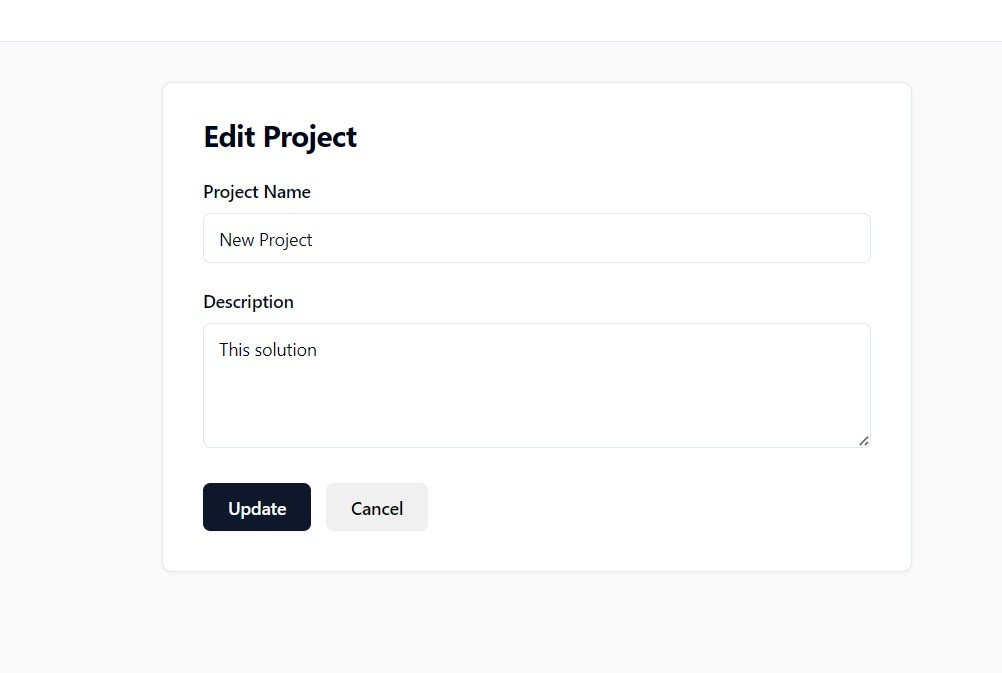
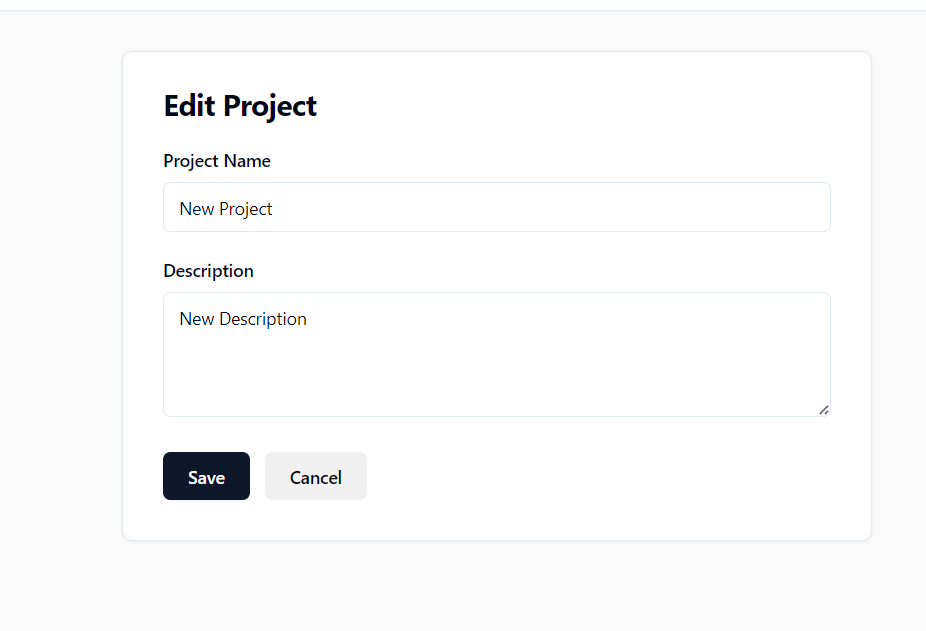
Edit A{I link and screenshots

diff --git a/frontend/projectmangment/src/app/services/project/project-service.ts b/frontend/projectmangment/src/app/services/project/project-service.ts
@@ -8,7 +8,7 @@ import { map } from 'rxjs/operators';
 })
 export class ProjectService {
     private http = inject(HttpClient);
-    private api = 'http://localhost:81/api/projects/projects.php';
+    private api = 'http://localhost:81/api_angular/projects/projects.php';
 
     projectSignal = signal<ProjectModel[]>([]);
     project = this.projectSignal.asReadonly();

diff --git a/frontend/projectmangment/src/app/services/task/task-service.ts b/frontend/projectmangment/src/app/services/task/task-service.ts
@@ -7,7 +7,7 @@ import { TaskModel } from '../../models/task-model';
 })
 export class TaskService {
     private http = inject(HttpClient);
-    private api = 'http://localhost:81/api/task/tasks.php';
+    private api = 'http://localhost:81/api_angular/task/tasks.php';
 
     tasksSignal = signal<TaskModel[]>([]);
     tasks = this.tasksSignal.asReadonly();